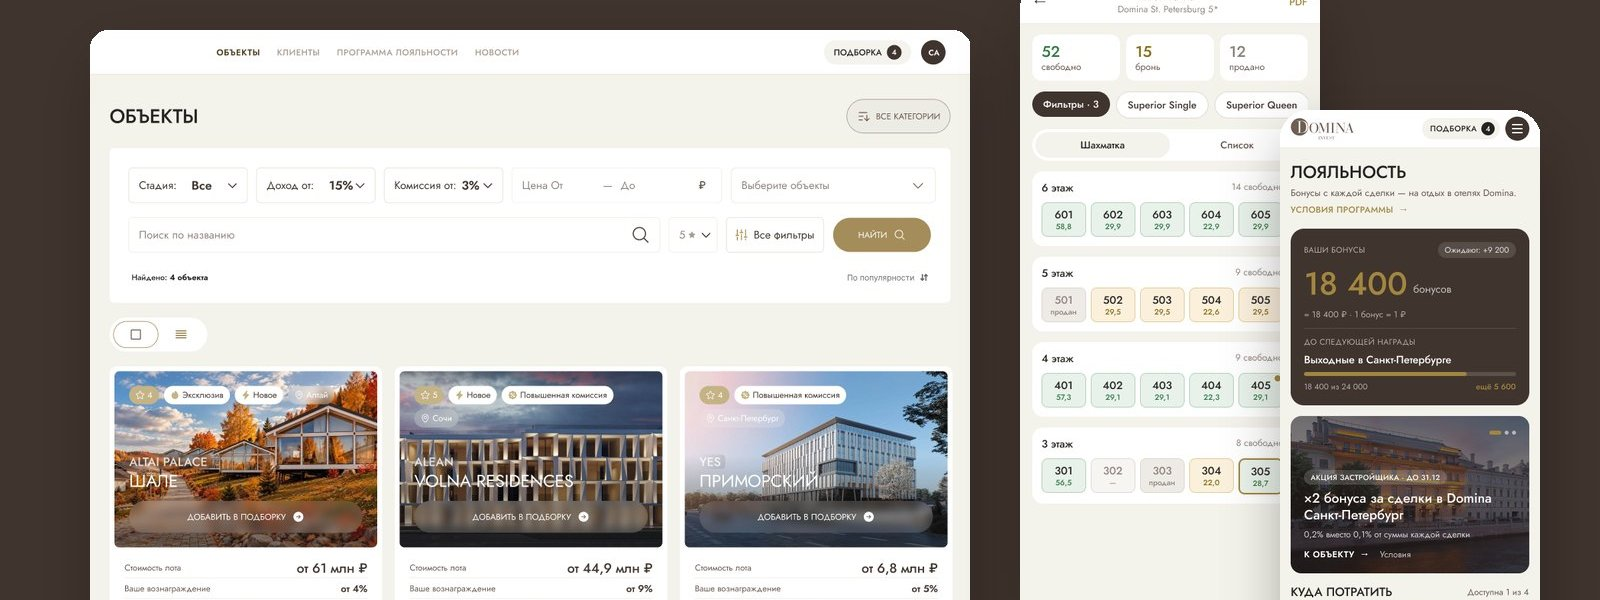
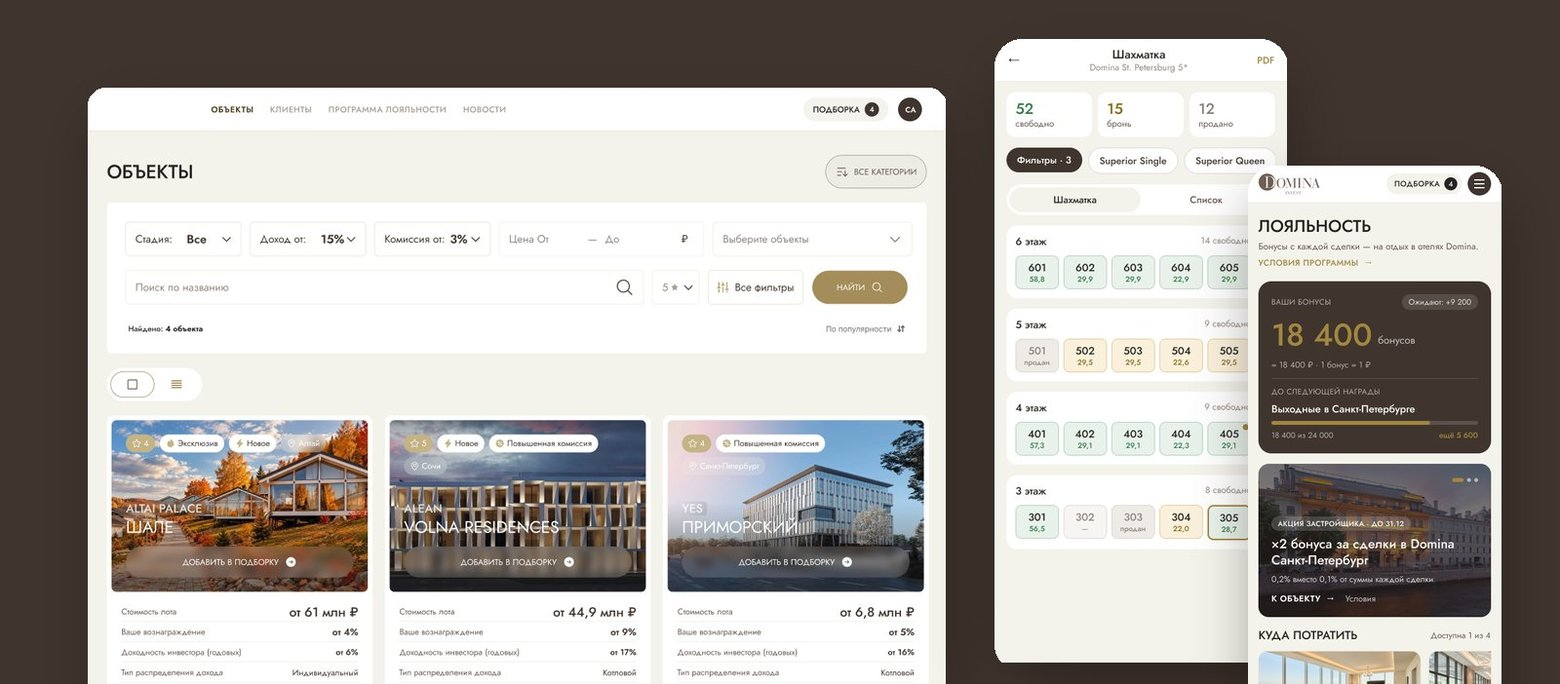
Replace Alfa Bank card with Domina Invest on the homepage
Claude-Session: https://claude.ai/code/session_01CvcxoMTCpv2boHEkqs8H7c

diff --git a/index.html b/index.html
@@ -144,17 +144,6 @@
     </div>
 
     <div class="projects-grid">
-      <a class="project-card project-card--wide" href="case-studies/domina.html">
-        <div class="project-card__image">
-          <img src="assets/img/photos/project-domina.jpg" alt="Domina Invest partner platform preview" width="1600" height="600" loading="lazy">
-        </div>
-        <div class="project-card__body">
-          <span class="badge" data-ru="PropTech · B2B-платформа">PropTech · B2B Platform</span>
-          <h3 data-ru="Domina Invest: платформа для агентов">Domina Invest: agent platform</h3>
-          <p data-ru="Кабинет агента, админка, сайт, соцсети и онбординг-видео для продажи отельной недвижимости.">Agent workspace, admin panel, website, social media and onboarding video for selling hotel real estate.</p>
-        </div>
-      </a>
-
       <a class="project-card" href="case-studies/nornickel.html">
         <div class="project-card__image">
           <img src="assets/img/photos/project-nornickel.png" alt="Nornickel Mining Platform preview" width="780" height="342" loading="lazy">
@@ -177,16 +166,16 @@
         </div>
       </a>
 
-      <article class="project-card project-card--muted">
+      <a class="project-card project-card--muted" href="case-studies/domina.html">
         <div class="project-card__image">
-          <img src="assets/img/photos/project-alfabank.jpg" alt="Alfa Bank business dashboard preview" width="780" height="342" loading="lazy">
+          <img src="assets/img/photos/project-domina.jpg" alt="Domina Invest partner platform preview" width="780" height="342" loading="lazy">
         </div>
         <div class="project-card__body">
-          <span class="badge">FinTech &amp; Mobile</span>
-          <h3 data-ru="Альфа Банк: бизнес линии">Alfa Bank: Business Lines</h3>
-          <p data-ru="Личный кабинет для юридических лиц: создание и управление торговыми точками, интеграция платёжных терминалов с онлайн-бухгалтерией.">Business dashboard for legal entities: onboarding and managing points of sale, with payment terminal integration and online accounting.</p>
+          <span class="badge" data-ru="PropTech · B2B-платформа">PropTech · B2B Platform</span>
+          <h3 data-ru="Domina Invest: платформа для агентов">Domina Invest: agent platform</h3>
+          <p data-ru="Кабинет агента, админка, сайт, соцсети и онбординг-видео для продажи отельной недвижимости.">Agent workspace, admin panel, website, social media and onboarding video for selling hotel real estate.</p>
         </div>
-      </article>
+      </a>
 
       <article class="project-card project-card--muted">
         <div class="project-card__image">

diff --git a/css/styles.css b/css/styles.css
@@ -474,8 +474,6 @@ button { font: inherit; background: none; border: none; cursor: pointer; }
   box-shadow: 0 16px 32px rgba(21, 27, 55, 0.08);
 }
 .project-card--muted { background: var(--c-card-muted-bg); }
-.project-card--wide { grid-column: 1 / -1; }
-.project-card--wide .project-card__image { aspect-ratio: 1600 / 600; }
 .project-card__image {
   position: relative;
   aspect-ratio: 780 / 342;
